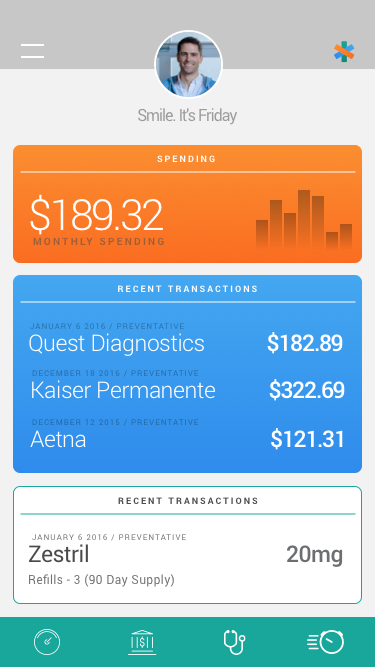
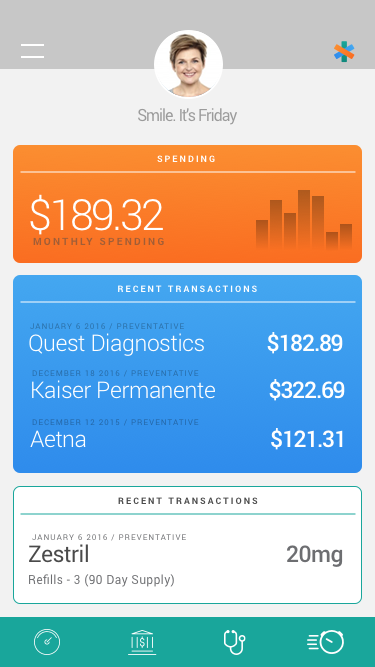
bug fixes to URL linking, stock photo, firefox layout and marquee timing

Changed region(s): [[0.4107, 0.03, 0.5867, 0.1499]]

diff --git a/src/client/landing/landing.html b/src/client/landing/landing.html
@@ -56,7 +56,7 @@
         <h3>WE WORK WITH THE BEST</h3>
         <md-divider></md-divider>
         <div layout="row" layout-align="center center">
-            <img flex="15" ng-repeat="partner in vm.partners" ng-src="{{partner.image}}" ng-href={{partner.url}}>
+            <img flex="15" ng-repeat="partner in vm.partners" ng-src="{{partner.image}}" ng-click="vm.link(partner.url)">
         </div>
     </div>
 </div>
@@ -100,7 +100,7 @@
     <div layout="column" layout-align="center start" flex="25" class="info">
         <h2>CONTACT INFO</h2>
         <md-list>
-            <md-list-item ng-repeat="item in vm.contactInfo" layout-align="end end">
+            <md-list-item ng-repeat="item in vm.contactInfo" layout-align="end end" ng-click="vm.link(item.url)">
                 <img ng-src="{{item.icon}}">
                 <h3>{{item.value}}</h3>
                 <div flex></div>

diff --git a/src/client/landing/team.service.js b/src/client/landing/team.service.js
@@ -14,10 +14,12 @@
             icon: '/landing/landing.img/phone.svg'
         }, {
             value: 'info@orderlyhealth.com',
-            icon: '/landing/landing.img/mail.svg'
+            icon: '/landing/landing.img/mail.svg',
+            url: 'mailto:info@orderlyhealth.com'
         }, {
             value: '@orderlyhealth',
-            icon: '/landing/landing.img/twitter.svg'
+            icon: '/landing/landing.img/twitter.svg',
+            url: 'https://twitter.com/OrderlyHealth'
         }];
 
         service.teamMembers = [{

diff --git a/src/client/landing/landing.directive.js b/src/client/landing/landing.directive.js
@@ -41,7 +41,7 @@
         vm.scrollItems = landingContent.scrollItems;
         vm.benefits = landingContent.benefits;
         vm.alphaDialog = alphaDialog;
-
+        vm.link = link;
 
 
         vm.contact = {
@@ -64,6 +64,11 @@
             url: 'http://www.bvsd.k12.co.us/pages/home.aspx'
         }];
 
+        function link(url) {
+            if (url) {
+                $window.location.href = url;
+            }
+        }
         vm.contactInfo = team.contactInfo;
         vm.sendMail = function () {
             var payload = {

diff --git a/src/client/landing/menu/menu.html b/src/client/landing/menu/menu.html
@@ -1,4 +1,4 @@
-<!--  FLOATING MENU 
+<!--  FLOATING MENU
 <md-fab-toolbar class="scroll-menu" md-open="vm.isOpenMenu" hide-xs ng-show="vm.isScrolled">
     <md-fab-trigger class="fab-trigger">
         <md-button aria-label="menu" class="md-fab">

diff --git a/src/client/landing/landing.css b/src/client/landing/landing.css
@@ -425,6 +425,8 @@ md-dialog {
 .footer-menu .menu-cta {
     width: 199px;
     height: 50px;
+    background-color: var(--dark-sky-blue);
+    background-color: #44a7f0;
 }
 
 .footer-menu .menu-cta span {

diff --git a/src/client/landing/menu/menu.css b/src/client/landing/menu/menu.css
@@ -8,3 +8,7 @@
     padding: 0px !important;
     margin: 0px !important;
 }
+
+.header-menu img {
+    max-height: 25px !important;
+}
